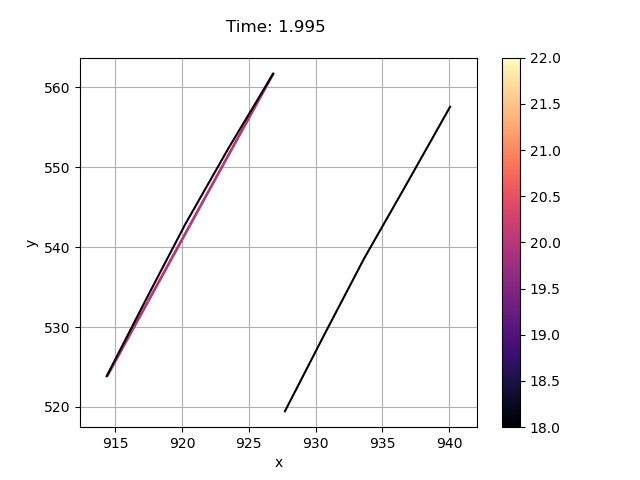
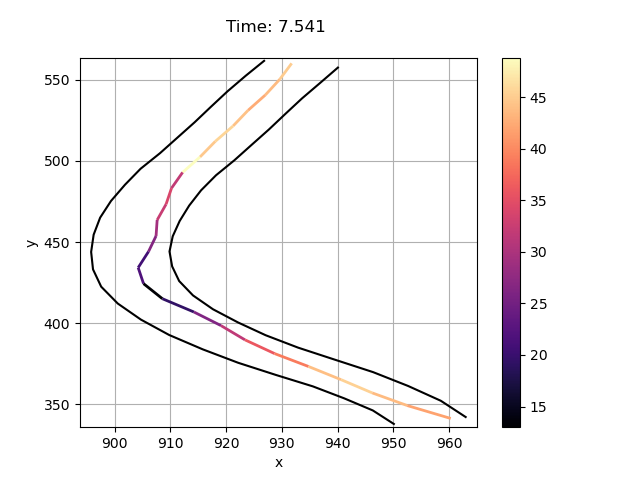
curvature

diff --git a/methods.py b/methods.py
@@ -21,6 +21,7 @@ class trust:
     def fun(self, x):
         alpha, vel = fc.split(x)
         vel = np.array(vel)
+        vel = np.delete(vel,-1)
         for i in range(len(vel)):
             if vel[i] == 0:
                 vel[i] = 0.1
@@ -31,10 +32,10 @@ class trust:
         result = []
         #curve acc
         for i in range(len(self.path[0])-2):
-            result.append(fc.acc(self.path,[x[i],x[i+1],x[i+2]],[x[len(self.path[0])+i],x[len(self.path[0])+i+1]],i)[0])
+            result.append(fc.acc(self.path,[x[i],x[i+1],x[i+2]],[x[len(self.path[0])+i],x[len(self.path[0])+i+1],x[len(self.path[0])+i+2]],i)[0])
         #acc
         for i in range(len(self.path[0])-2):
-            result.append(fc.acc(self.path,[x[i],x[i+1],x[i+2]],[x[len(self.path[0])+i],x[len(self.path[0])+i+1]],i)[1])
+            result.append(fc.acc(self.path,[x[i],x[i+1],x[i+2]],[x[len(self.path[0])+i],x[len(self.path[0])+i+1],x[len(self.path[0])+i+2]],i)[1])
         return result
 
     def cons(self):
@@ -79,6 +80,7 @@ class cob:
     def fun(self, x):
         alpha, vel = fc.split(x)
         vel = np.array(vel)
+        vel = np.delete(vel,-1)
         for i in range(len(vel)):
             if vel[i] == 0:
                 vel[i] = 0.1
@@ -90,19 +92,19 @@ class cob:
         #max curve acc
         def constraint_maker1(i=0):  # i MUST be an optional keyword argument, else it will not work
             def constraint1(x):
-                return  - fc.acc(self.path,[x[i],x[i+1],x[i+2]],[x[len(self.path[0])+i],x[len(self.path[0])+i+1]],i)[0] + self.a_smax
+                return  - fc.acc(self.path,[x[i],x[i+1],x[i+2]],[x[len(self.path[0])+i],x[len(self.path[0])+i+1],x[len(self.path[0])+i+2]],i)[0] + self.a_smax
             return constraint1
 
         #max acc
         def constraint_maker2(i=0):  # i MUST be an optional keyword argument, else it will not work
             def constraint2(x):
-                return  - fc.acc(self.path,[x[i],x[i+1],x[i+2]],[x[len(self.path[0])+i],x[len(self.path[0])+i+1]],i)[1] + self.a_pmax
+                return  - fc.acc(self.path,[x[i],x[i+1],x[i+2]],[x[len(self.path[0])+i],x[len(self.path[0])+i+1],x[len(self.path[0])+i+2]],i)[1] + self.a_pmax
             return constraint2
 
         #min acc
         def constraint_maker3(i=0):  # i MUST be an optional keyword argument, else it will not work
             def constraint3(x):
-                return   fc.acc(self.path,[x[i],x[i+1],x[i+2]],[x[len(self.path[0])+i],x[len(self.path[0])+i+1]],i)[1] + self.a_pmin
+                return   fc.acc(self.path,[x[i],x[i+1],x[i+2]],[x[len(self.path[0])+i],x[len(self.path[0])+i+1],x[len(self.path[0])+i+2]],i)[1] + self.a_pmin
             return constraint3
 
         #max alpha
@@ -157,45 +159,32 @@ class slsqp:
     def fun(self, x):
         alpha, vel = fc.split(x)
         vel = np.array(vel)
+        vel = np.delete(vel,-1)
         for i in range(len(vel)):
             if vel[i] == 0:
                 vel[i] = 0.1
         f = np.sum(np.array(fc.dist(fc.pos(self.path,alpha)))/vel)
         
-        #penalty for constraints
-        g = []
-        for i in range(len(self.path[0])-2):
-            #take the correct alphas
-            q = alpha[i]
-            w = alpha[i+1]
-            e = alpha[i+2]
-            #curve acc
-            g.append(fc.acc(self.path,[q,w,e],[vel[i],vel[i+1]],i)[0]-self.a_smax)
-        penalty = 0
-        for i in range(len(g)):
-            if g[i] > 0:
-                penalty += vel[i]*0.07
-        
-        return f + penalty
+        return f
 
     #constraints
     def cons(self):
         #max curve acc
         def constraint_maker1(i=0):  # i MUST be an optional keyword argument, else it will not work
             def constraint1(x):
-                return  - fc.acc(self.path,[x[i],x[i+1],x[i+2]],[x[len(self.path[0])+i],x[len(self.path[0])+i+1]],i)[0] + self.a_smax
+                return  - fc.acc(self.path,[x[i],x[i+1],x[i+2]],[x[len(self.path[0])+i],x[len(self.path[0])+i+1],x[len(self.path[0])+i+2]],i)[0] + self.a_smax
             return constraint1
 
         #max acc
         def constraint_maker2(i=0):  # i MUST be an optional keyword argument, else it will not work
             def constraint2(x):
-                return  - fc.acc(self.path,[x[i],x[i+1],x[i+2]],[x[len(self.path[0])+i],x[len(self.path[0])+i+1]],i)[1] + self.a_pmax
+                return  - fc.acc(self.path,[x[i],x[i+1],x[i+2]],[x[len(self.path[0])+i],x[len(self.path[0])+i+1],x[len(self.path[0])+i+2]],i)[1] + self.a_pmax
             return constraint2
 
         #min acc
         def constraint_maker3(i=0):  # i MUST be an optional keyword argument, else it will not work
             def constraint3(x):
-                return   fc.acc(self.path,[x[i],x[i+1],x[i+2]],[x[len(self.path[0])+i],x[len(self.path[0])+i+1]],i)[1] + self.a_pmin
+                return   fc.acc(self.path,[x[i],x[i+1],x[i+2]],[x[len(self.path[0])+i],x[len(self.path[0])+i+1],x[len(self.path[0])+i+2]],i)[1] + self.a_pmin
             return constraint3
     
         c = []

diff --git a/functions.py b/functions.py
@@ -186,50 +186,70 @@ def vel(v,position):
         vel.append( v * velocity/norm(velocity))
     return vel
 
-
-#calculate acceleration
 def acc(path,alpha,v,i):
-    left,right = path
-    left = left[i:i+3] #take parts we need
-    right = right[i:i+3]
-    path = left,right
-    
+    if i != -1:
+        left,right = path
+        left = left[i:i+3] #take parts we need
+        right = right[i:i+3]
+        path = left,right
+
     position = np.array(pos(path, alpha))
-    velocity = np.array(vel(v,position)) #direction of velocity
     v = np.array(v) #speed
     distance = np.array(dist(position))
-    if v[0] == 0 or v[1] == 0:
-        time = np.array([1000,1000])
-    else:
-        time = distance/v
-    dv = v[1]*velocity[1]-v[0]*velocity[0]
-    a = np.array([dv[0]/time[0],dv[1]/time[0]])
-    if velocity[0][0] == 0 or velocity[0][0] == 0:
-        a_s = 1000
-        a_p = 1000
-    else:
-        a_s = norm(a - (np.dot(a,velocity[0]))/(np.dot(velocity[0],velocity[0])) * velocity[0]) #orthogonal part to velocity
-        a_p = (np.dot(a,velocity[0]))/(np.dot(velocity[0],velocity[0])) * velocity[0] #parallel part of a to velocity
-    if v[1] > v[0]:
-        a_p = norm(a_p)
-    else:
-        a_p = -norm(a_p)
-    return a_s, a_p
 
+    #calculate curve acc
+    xt = np.gradient(position[:,0])
+    yt = np.gradient(position[:,1])
+    velocity = np.array([ [xt[i], yt[i]] for i in range(len(xt))])
+    speed = np.sqrt(xt**2+yt**2)
+
+    #curvature
+    xtt = np.gradient(xt)
+    ytt = np.gradient(yt)
+    curvature = np.abs(xtt * yt - xt * ytt) / (speed**2)**1.5
+    
+    a_s = v**2 * curvature
+
+    #calculate acc and dec
+    a_p = []
+    for i in range(len(v)-1):
+        a_p.append(((v[i+1])**2 - (v[i])**2)/(2*distance[i]))
+
+    return a_s[1], a_p[1], a_s, a_p
+
+#maximum v possible of path
+def pmax(path, alpha, a_smax, v_max):
+    position = np.array(pos(path, alpha))
+    xt = np.gradient(position[:,0])
+    yt = np.gradient(position[:,1])
+    velocity = np.array([ [xt[i], yt[i]] for i in range(len(xt))])
+    speed = np.sqrt(xt**2+yt**2)
+
+    #curvature
+    xtt = np.gradient(xt)
+    ytt = np.gradient(yt)
+
+    curvature = np.abs(xtt * yt - xt * ytt) / (speed**2)**1.5
+    v = np.sqrt(a_smax/curvature) #maximum possible speed
+    #if it's higher than vmax
+    for i in range(len(v)):
+        if v[i]>v_max:
+            v[i] = v_max
+    return v
 
 
 #check constraints
 def check(a, max, min):
-    #delete first and last element, as they can't be calculated correctly
-    a = np.delete(a,-1)
     a = np.delete(a,0)
     #tolerance
     epsilon = 0.2
     for i in range(len(a)):
         if max - a[i] < -epsilon:
             print('Accident!!!')
+            print(i)
         if min + a[i] < -epsilon:
             print('Accident!!!')
+            print(i)
 
 
 #splits vector in two parts
@@ -237,7 +257,7 @@ def split(x):
     alpha = []
     vel = []
     for i in range(len(x)):
-        if i < int(len(x)/2+1):
+        if i < int(len(x)/2):
             alpha.append(x[i])
         else:
             vel.append(x[i])

diff --git a/main.py b/main.py
@@ -17,14 +17,14 @@ from functions import method
 start_time = time.time()
 
 
-a_pmax = 8.0 #maximal parallel acceleration
-a_pmin = 12.0 #maximal deceleration
-a_smax = 12.0 #maximal orthogonal acceleration
-v_max = 20 #maximal speed
+a_pmax = 40.0 #maximal parallel acceleration
+a_pmin = 70.0 #maximal deceleration
+a_smax = 10.0 #maximal orthogonal acceleration
+v_max = np.inf #maximal speed
 method =  method.SLSQP 
-sound = False
+sound = True
 
-path = fc.track(375,380)
+path = fc.track(375,400)
 
 res = fc.optimize(path, a_pmax, a_pmin, a_smax, v_max, method)
 
@@ -41,26 +41,19 @@ alpha, vel = fc.split(res.x)
 
 #calculate from result
 position = np.array(fc.pos(path,alpha))
-a_s = []
-a_p = []
-for i in range(len(path[0])-2):
-    #take the correct alphas
-    q = alpha[i]
-    w = alpha[i+1]
-    e = alpha[i+2]
-    a_s.append(fc.acc(path,[q,w,e],[vel[i],vel[i+1]],i)[0])
-    a_p.append(fc.acc(path,[q,w,e],[vel[i],vel[i+1]],i)[1])
+a_s = fc.acc(path,alpha,vel,-1)[2]
+a_p = fc.acc(path,alpha,vel,-1)[3]
+
 
 #time    
-t = np.sum(np.array(fc.dist(fc.pos(path,alpha)))/np.array(vel))
+t = np.sum(np.array(fc.dist(fc.pos(path,alpha)))/np.delete(np.array(vel),-1))
     
 fc.plotter(path,position,vel,t)
 
+print('curve\n')
 fc.check(a_s,a_smax,0)
-print(a_s)
+print('acc and dec\n')
 fc.check(a_p,a_pmax,a_pmin)
-print(a_p)
-print(alpha)
-print(vel)
+
 
 print("--- %s seconds ---" % (time.time() - start_time))

diff --git a/test.py b/test.py
@@ -1,0 +1,16 @@
+#!/usr/bin/env python3
+# -*- coding: utf-8 -*-
+"""
+Created on Sat Apr 10 15:53:20 2021
+
+@author: bjornzobrist
+"""
+
+import numpy as np
+
+
+v = np.array([1,2,3,4,5])
+
+i = 2
+
+print(np.delete(v,-1))
